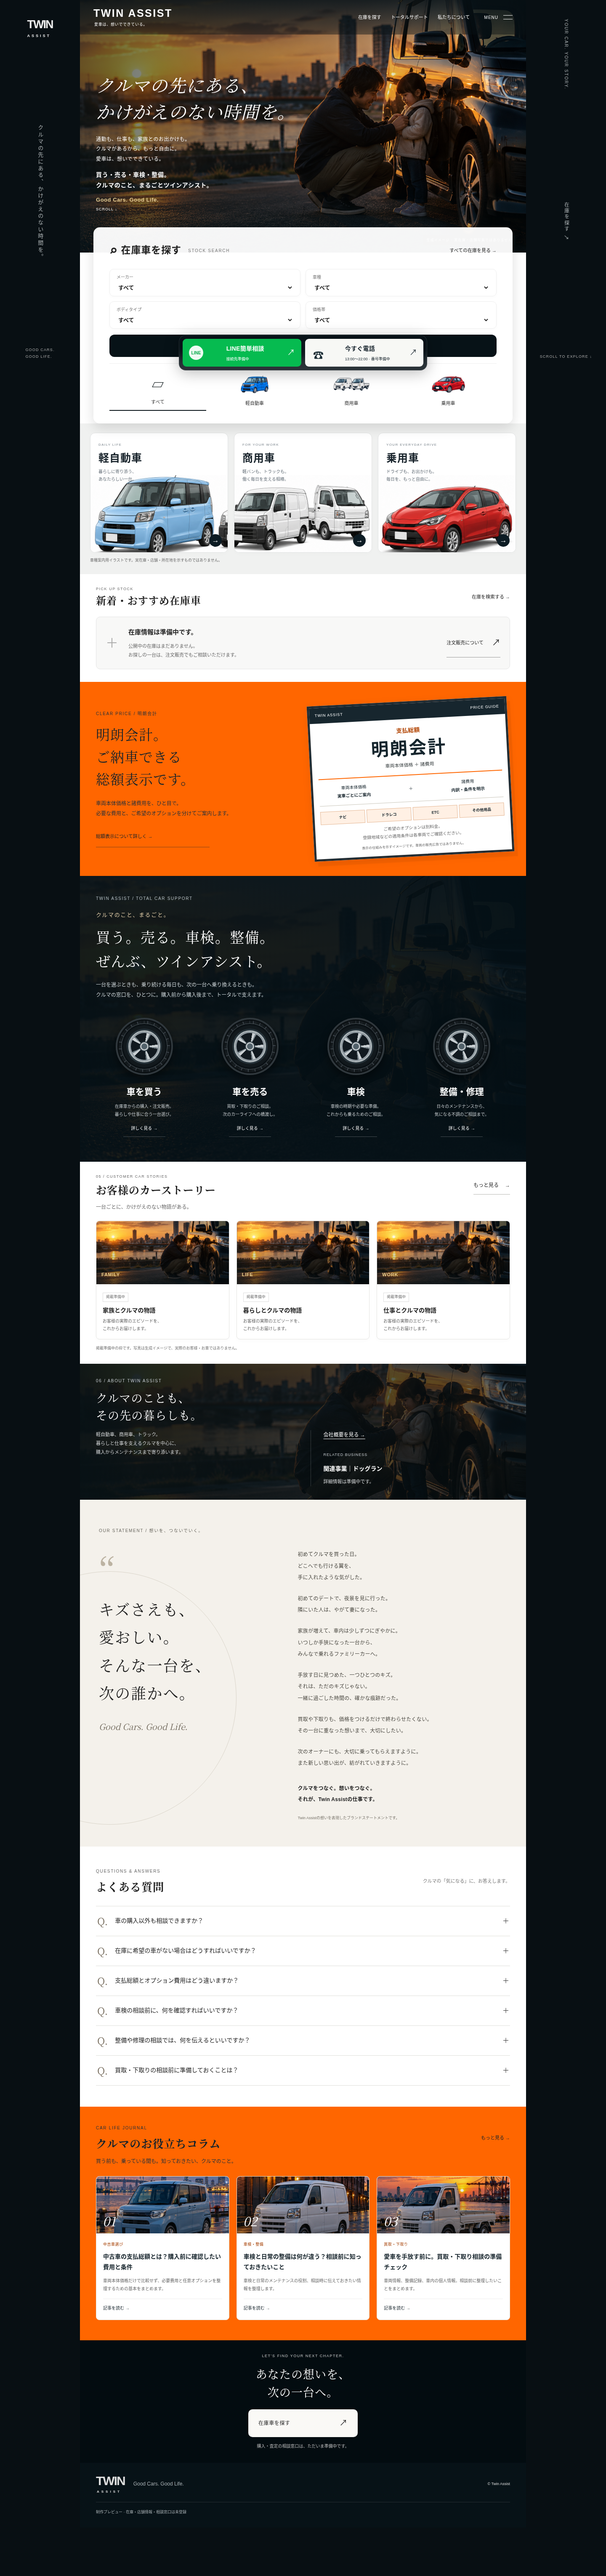
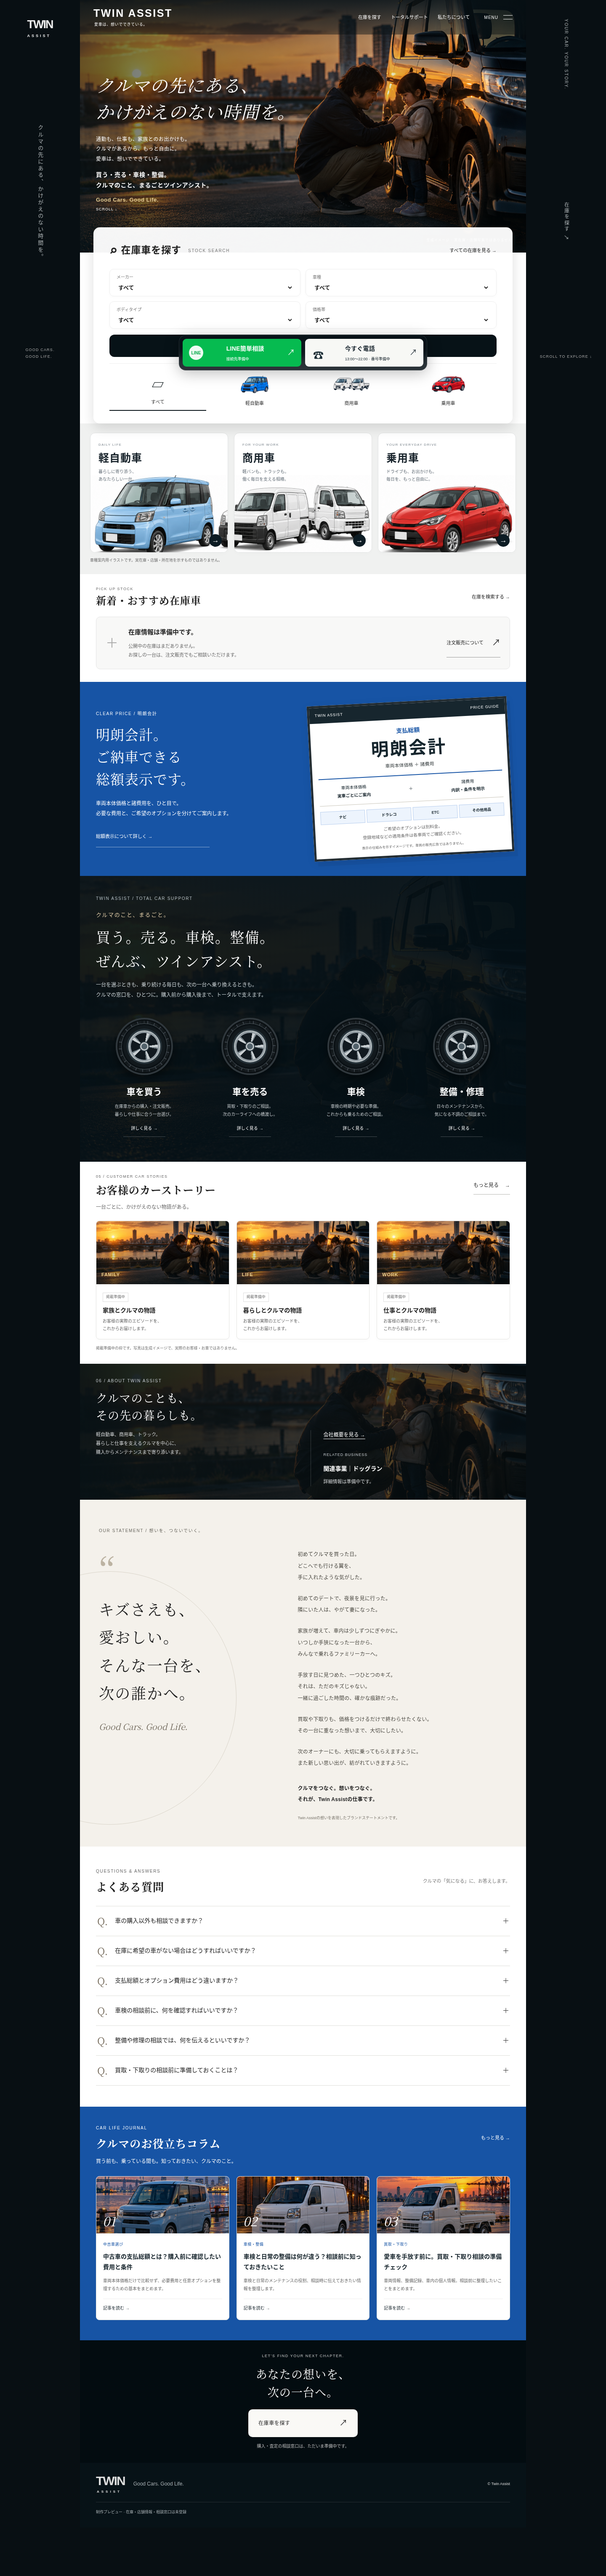
Change accent sections to blue with white foreground text

Changed region(s): [[0.125, 0.8114, 0.875, 0.9363], [0.125, 0.2497, 0.875, 0.3433]]

diff --git a/public/style.css b/public/style.css
@@ -37,14 +37,15 @@ header .menu-button{color:inherit}@media(max-width:767px){.category-tile h2{font
 .chips button[data-category=commercial]:not([data-category=all]):before{background-image:url('/images/search-commercial.png')}
 .chips button[data-category=passenger]:not([data-category=all]):before{background-image:url('/images/search-passenger.png')}
 .chips button[data-category=all]:before{line-height:61px}
-/* Orange surfaces; the brand statement keeps its warm beige background. */
-:root{--brand-orange:#ff6600;--orange-light:#fff0e4;--orange-border:#edc7a9}
-.price,.column,.detail-soft{background:var(--brand-orange);color:#15232b}
-.price-intro p,.price-intro .eyebrow,.column-intro,.column>.title-row .eyebrow,.detail-soft>p{color:#25313a}
-.price-intro .text-link{border-color:#15232b80}.column>.title-row .all-stock{color:#15232b}
-.price-board{background:white}.board-options span{background:var(--orange-light);border-color:#e4b795}.board-total{border-color:#ff6600}.board-label{color:#b14300}.board-top{background:#17262e}
-.stock-empty-state,.detail-notice,.column-toc,.detail-card-grid article,.story-list-empty,.article-support+.article-note{background:var(--orange-light)}
-.stock-empty-state,.story-list-empty{border-color:var(--orange-border)}.detail-card-grid article{border-top-color:var(--brand-orange)}.detail-notice{border-left-color:var(--brand-orange)}
-.detail-soft .detail-steps li{border-color:#15232b55}.detail-soft .detail-steps li:before,.detail-soft .detail-steps p{color:#25313a}.column-breadcrumb,.detail-breadcrumb{background:#fff3e9}
-.detail-content .eyebrow,.column-category{color:#a53e00}.price-board>p,.board-disclaimer{color:#666}.detail-soft .detail-notice{background:#fff6ef}.detail-soft .text-link{border-color:#15232b70}.statement{background:#f4f1eb}
+/* Blue surfaces with white text; the statement retains beige. */
+:root{--brand-blue:#1754a5;--blue-light:#edf4fd;--blue-border:#b9cfee}
+.price,.column,.detail-soft{background:var(--brand-blue);color:#fff}
+.price-intro h2,.price-intro p,.price-intro .eyebrow,.price-intro .text-link,.column>.title-row h2,.column-intro,.column>.title-row .eyebrow,.column>.title-row .all-stock,.column-index>h1,.column-index>.eyebrow,.detail-soft>h2,.detail-soft>p,.detail-soft>.eyebrow,.detail-soft .detail-steps h3,.detail-soft .detail-steps p,.detail-soft .detail-steps li:before,.detail-soft>.text-link,.detail-soft>.detail-service-links a{color:#fff}
+.price-intro .text-link,.detail-soft>.text-link,.detail-soft>.detail-service-links a{border-color:#ffffff80}
+.price-board,.column-card{background:white;color:#15232b}
+.board-options span{background:var(--blue-light);border-color:var(--blue-border)}.board-total{border-color:var(--brand-blue)}.board-label{color:var(--brand-blue)}.board-top{background:#17262e}
+.stock-empty-state,.detail-notice,.column-toc,.detail-card-grid article,.story-list-empty,.article-support+.article-note{background:var(--blue-light);color:#15232b}
+.stock-empty-state,.story-list-empty{border-color:var(--blue-border)}.detail-card-grid article{border-top-color:var(--brand-blue)}.detail-notice{border-left-color:var(--brand-blue)}
+.detail-soft .detail-steps li{border-color:#ffffff55}.column-breadcrumb,.detail-breadcrumb{background:#edf4fd}
+.detail-content .eyebrow,.column-category{color:#1754a5}.price-board>p,.board-disclaimer{color:#666}.detail-soft .detail-notice{background:var(--blue-light);color:#25313a}.statement{background:#f4f1eb}
 @media(max-width:767px){.chips button[data-category]:not([data-category=all]):before{width:min(72px,100%);height:48px}.chips button[data-category=all]:before{line-height:48px}}
